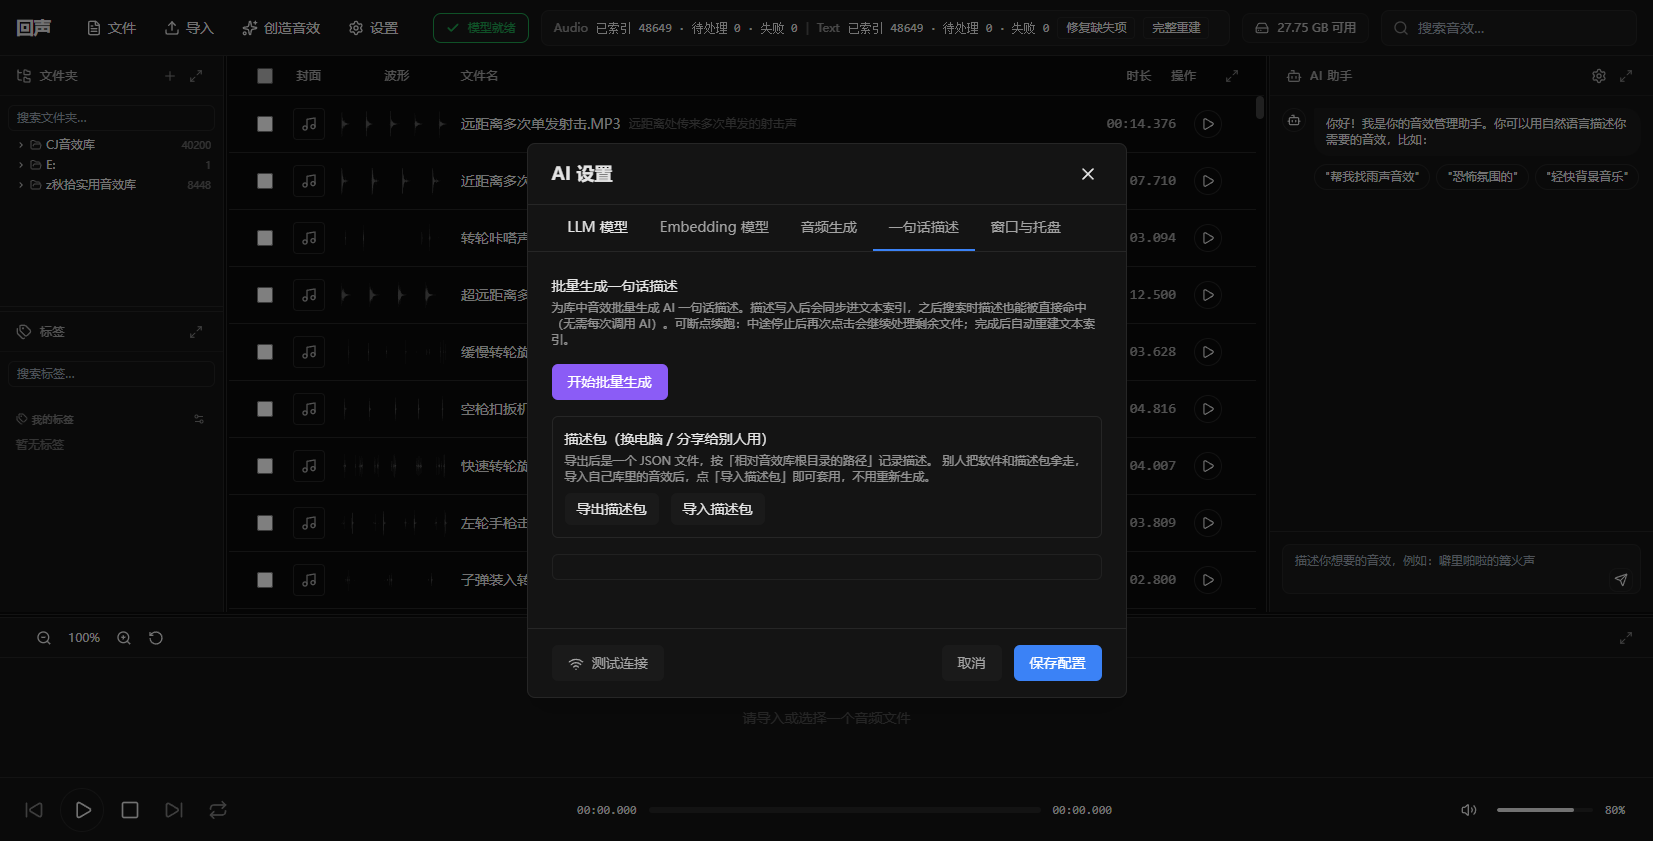
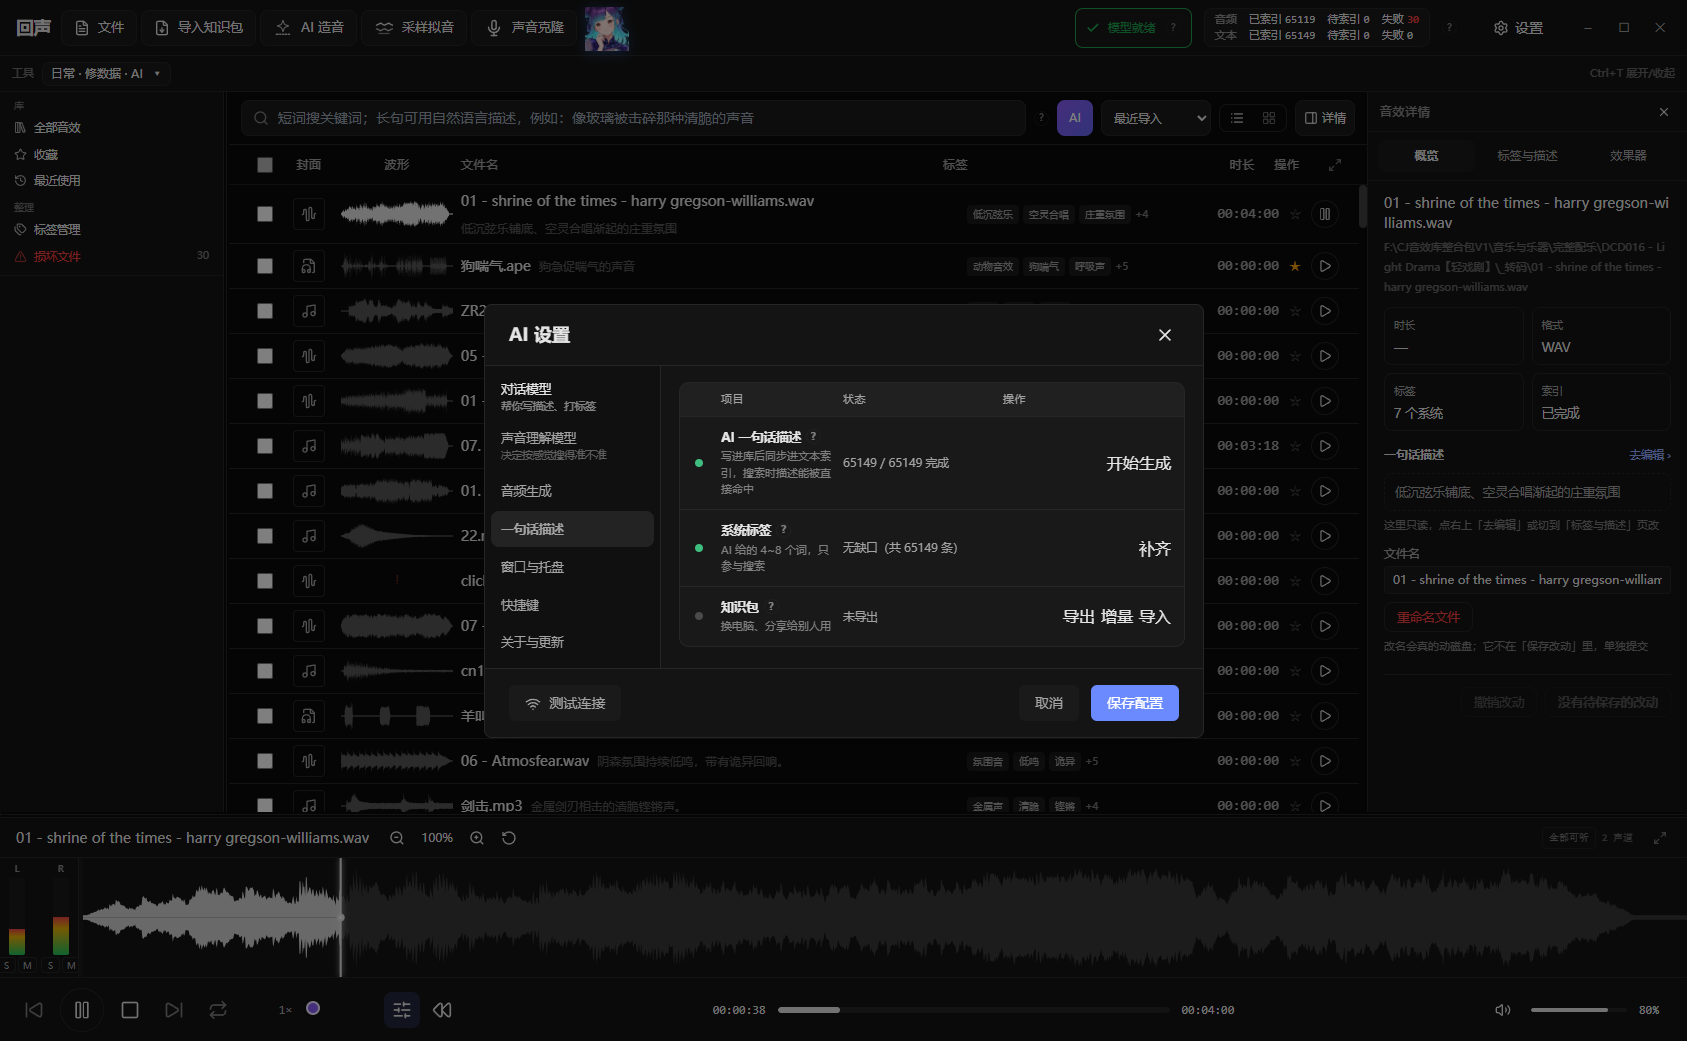
docs(screenshots): 换成 V22-r03 的实际界面截图——主界面/卡片视图/详情三页/AI 造音/采样拟音/一句话描述/AI 设置/待归类

diff --git a/README.md b/README.md
@@ -70,21 +70,43 @@
 
 ### 界面预览
 
-**主界面：目录树 + AI 描述 + 波形试听**
+> 下面这些截图是 **V22-r03**（2026-11-27）的实际界面。
+
+**主界面：列表 + 标签列 + 右侧三页详情（概览 / 标签与描述 / 效果器）**
 
 ![回声 EchoMind 主界面](assets/screenshots/main.png)
 
-**用一句话描述生成新音效**
+**卡片视图：每条音效带封面、描述、标签和波形**
 
-![创造音效](assets/screenshots/generate.png)
+![回声 EchoMind 卡片视图](assets/screenshots/main-v12.png)
 
-**批量生成一句话描述，并可导出描述包跨机器复用**
+**详情 · 标签与描述：全界面唯一能改描述和标签的地方，保存按钮带改动计数**
+
+![详情 - 标签与描述](assets/screenshots/ui-detail-tags.png)
+
+**详情 · 效果器：混响预设、湿声强度、试听与导出**
+
+![详情 - 效果器](assets/screenshots/ui-detail-fx.png)
+
+**AI 造音：选分类（每个分类一个图标）→ 点档位 → 软件自动拼提示词交给 AI 生成**
+
+![AI 造音](assets/screenshots/generate.png)
+
+**采样拟音：拿你库里的采样分层拼，毫秒级、免费，用触控板演奏并录下来**
+
+![采样拟音](assets/screenshots/ui-recipe.png)
+
+**批量生成一句话描述：任务清单式，缺标签时一键补齐（可导出知识包跨机器复用）**
 
 ![一句话描述](assets/screenshots/description-pack.png)
 
-**LLM 可接 DeepSeek / Kimi / OpenAI / 本地模型**
+**AI 设置：左导航 + 中文用途名——对话模型（写描述、打标签）/ 声音理解模型（决定按感觉搜得准不准）**
 
 ![AI 设置](assets/screenshots/settings-llm.png)
+
+**待归类审阅：把「_待归类」里的文件直接铺进主列表，边听边右键归类**
+
+![待归类审阅](assets/screenshots/ui-unclassified.png)
 
 ***
 
